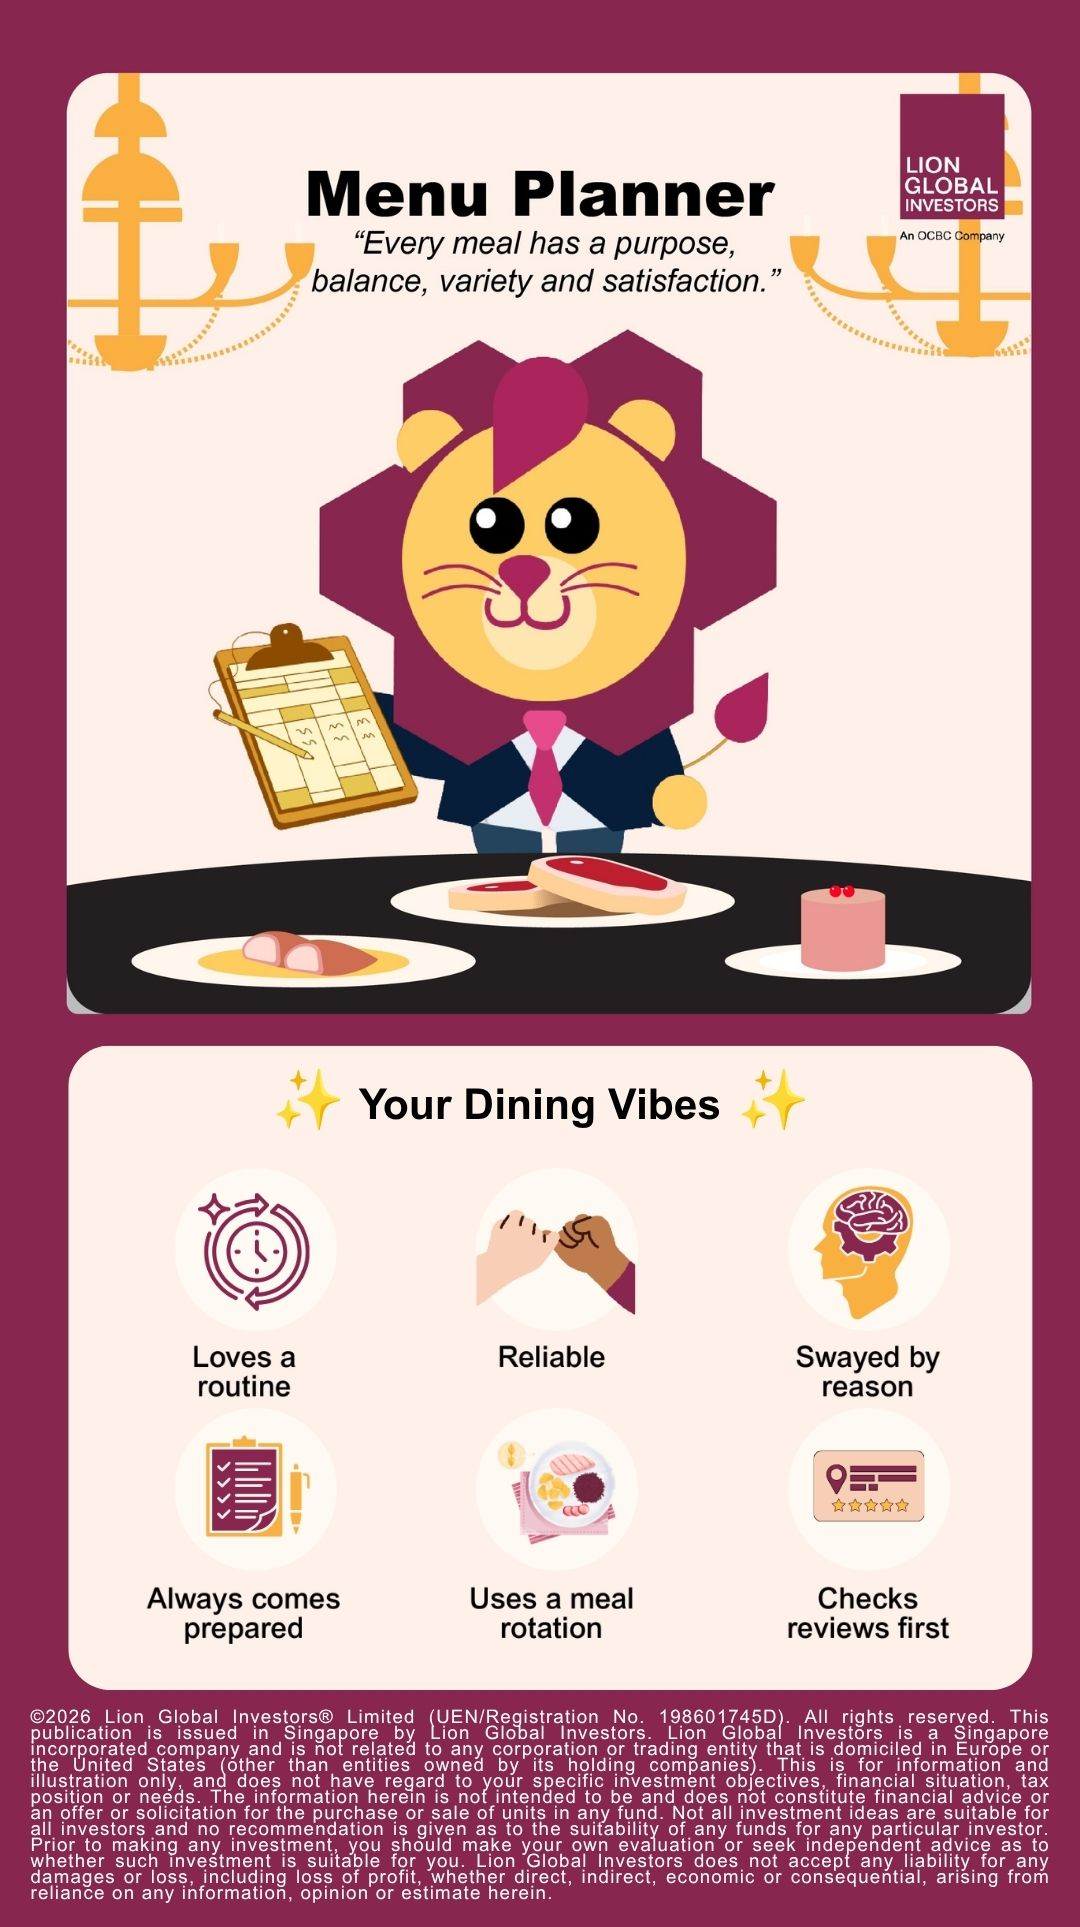
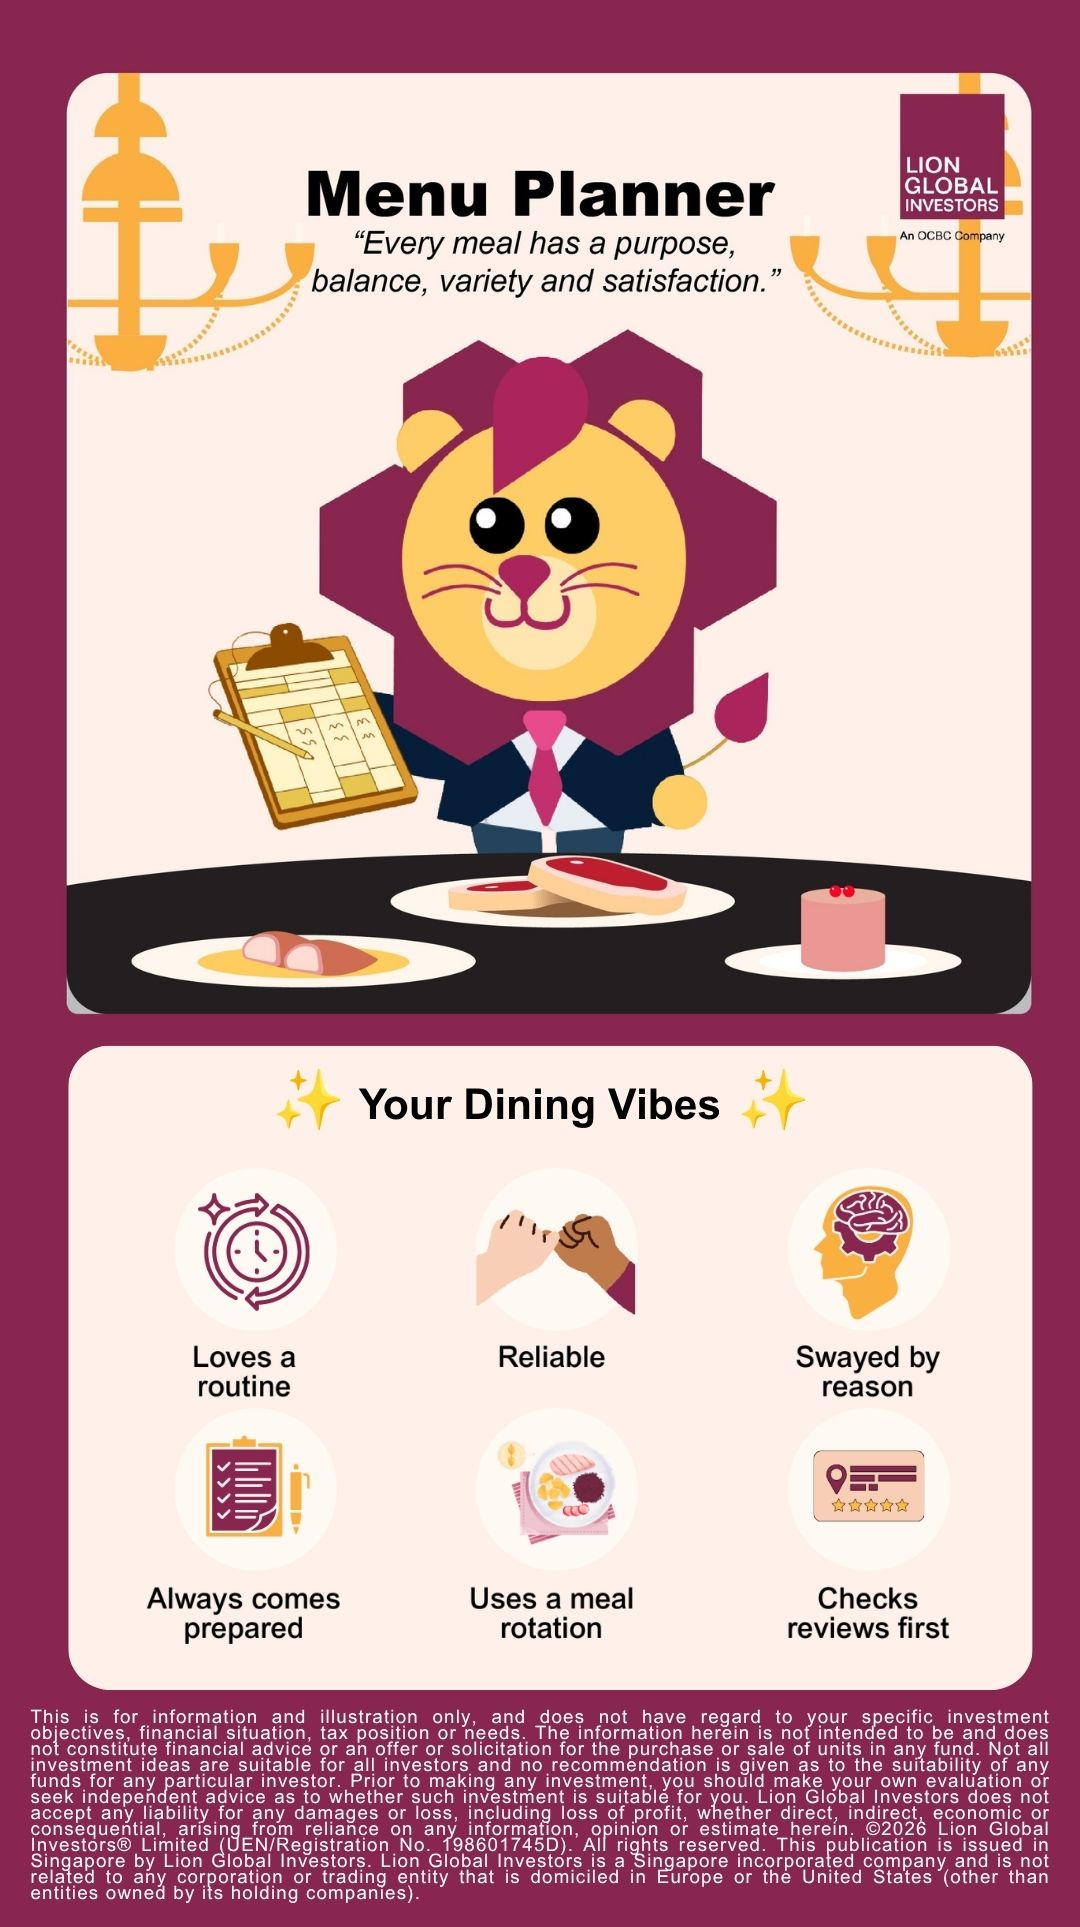
update disclaimer

Changed region(s): [[0.0306, 0.8718, 0.9778, 0.9964]]

diff --git a/result-classic-lover.html b/result-classic-lover.html
@@ -140,7 +140,7 @@
           
         </div>
 
-        <p class="disclaimer" id="disclaimer">^LBMA GOLD PRICE IS A TRADEMARK OF PRECIOUS METALS PRICES LIMITED, LICENSED TO ICE BENCHMARK ADMINISTRATION LIMITED (IBA) AS THE ADMINISTRATOR OF THE LBMA GOLD PRICE, AND IS USED BY LION GLOBAL INVESTORS LIMITED WITH PERMISSION UNDER LICENCE FROM IBA. <br> ©2026 Lion Global Investors® Limited (UEN/Registration No. 198601745D). All rights reserved. This publication is issued in Singapore by Lion Global Investors. Lion Global Investors is a Singapore incorporated company and is not related to any corporation or trading entity that is domiciled in Europe or the United States (other than entities owned by its holding companies). This is for information and illustration only, and does not have regard to your specific investment objectives, financial situation, tax position or needs. The information herein is not intended to be and does not constitute financial advice or an offer or solicitation for the purchase or sale of units in any fund. Not all investment ideas are suitable for all investors and no recommendation is given as to the suitability of any funds for any particular investor. You should read the prospectus and Product Highlights Sheet of the relevant fund which are available and may be obtained from Lion Global Investors Limited or any of its distributors, for further details including the risk factors and consider if a fund is suitable for you. Prior to making any investment, you should make your own evaluation or seek independent advice as to whether such investment is suitable for you. Lion Global Investors does not accept any liability for any damages or loss, including loss of profit, whether direct, indirect, economic or consequential, arising from reliance on any information, opinion or estimate herein.</p>
+        <p class="disclaimer" id="disclaimer">^LBMA GOLD PRICE IS A TRADEMARK OF PRECIOUS METALS PRICES LIMITED, LICENSED TO ICE BENCHMARK ADMINISTRATION LIMITED (IBA) AS THE ADMINISTRATOR OF THE LBMA GOLD PRICE, AND IS USED BY LION GLOBAL INVESTORS LIMITED WITH PERMISSION UNDER LICENCE FROM IBA. <br> This is for information and illustration only, and does not have regard to your specific investment objectives, financial situation, tax position or needs. The information herein is not intended to be and does not constitute financial advice or an offer or solicitation for the purchase or sale of units in any fund. Not all investment ideas are suitable for all investors and no recommendation is given as to the suitability of any funds for any particular investor. You should read the prospectus and Product Highlights Sheet of the relevant fund which are available and may be obtained from Lion Global Investors Limited or any of its distributors, for further details including the risk factors and consider if a fund is suitable for you. Prior to making any investment, you should make your own evaluation or seek independent advice as to whether such investment is suitable for you. Lion Global Investors does not accept any liability for any damages or loss, including loss of profit, whether direct, indirect, economic or consequential, arising from reliance on any information, opinion or estimate herein. ©2026 Lion Global Investors® Limited (UEN/Registration No. 198601745D). All rights reserved. This publication is issued in Singapore by Lion Global Investors. Lion Global Investors is a Singapore incorporated company and is not related to any corporation or trading entity that is domiciled in Europe or the United States (other than entities owned by its holding companies).</p>
         
         <p class="spacer"></p>
       </div>

diff --git a/result-travel-food-vlogger.html b/result-travel-food-vlogger.html
@@ -141,7 +141,7 @@
           
         </div>
 
-        <p class="disclaimer" id="disclaimer">^LBMA GOLD PRICE IS A TRADEMARK OF PRECIOUS METALS PRICES LIMITED, LICENSED TO ICE BENCHMARK ADMINISTRATION LIMITED (IBA) AS THE ADMINISTRATOR OF THE LBMA GOLD PRICE, AND IS USED BY LION GLOBAL INVESTORS LIMITED WITH PERMISSION UNDER LICENCE FROM IBA. <br> ©2026 Lion Global Investors® Limited (UEN/Registration No. 198601745D). All rights reserved. This publication is issued in Singapore by Lion Global Investors. Lion Global Investors is a Singapore incorporated company and is not related to any corporation or trading entity that is domiciled in Europe or the United States (other than entities owned by its holding companies). This is for information and illustration only, and does not have regard to your specific investment objectives, financial situation, tax position or needs. The information herein is not intended to be and does not constitute financial advice or an offer or solicitation for the purchase or sale of units in any fund. Not all investment ideas are suitable for all investors and no recommendation is given as to the suitability of any funds for any particular investor. You should read the prospectus and Product Highlights Sheet of the relevant fund which are available and may be obtained from Lion Global Investors Limited or any of its distributors, for further details including the risk factors and consider if a fund is suitable for you. Prior to making any investment, you should make your own evaluation or seek independent advice as to whether such investment is suitable for you. Lion Global Investors does not accept any liability for any damages or loss, including loss of profit, whether direct, indirect, economic or consequential, arising from reliance on any information, opinion or estimate herein.</p>
+        <p class="disclaimer" id="disclaimer">^LBMA GOLD PRICE IS A TRADEMARK OF PRECIOUS METALS PRICES LIMITED, LICENSED TO ICE BENCHMARK ADMINISTRATION LIMITED (IBA) AS THE ADMINISTRATOR OF THE LBMA GOLD PRICE, AND IS USED BY LION GLOBAL INVESTORS LIMITED WITH PERMISSION UNDER LICENCE FROM IBA. <br> This is for information and illustration only, and does not have regard to your specific investment objectives, financial situation, tax position or needs. The information herein is not intended to be and does not constitute financial advice or an offer or solicitation for the purchase or sale of units in any fund. Not all investment ideas are suitable for all investors and no recommendation is given as to the suitability of any funds for any particular investor. You should read the prospectus and Product Highlights Sheet of the relevant fund which are available and may be obtained from Lion Global Investors Limited or any of its distributors, for further details including the risk factors and consider if a fund is suitable for you. Prior to making any investment, you should make your own evaluation or seek independent advice as to whether such investment is suitable for you. Lion Global Investors does not accept any liability for any damages or loss, including loss of profit, whether direct, indirect, economic or consequential, arising from reliance on any information, opinion or estimate herein. ©2026 Lion Global Investors® Limited (UEN/Registration No. 198601745D). All rights reserved. This publication is issued in Singapore by Lion Global Investors. Lion Global Investors is a Singapore incorporated company and is not related to any corporation or trading entity that is domiciled in Europe or the United States (other than entities owned by its holding companies).</p>
         
         <p class="spacer"></p>
       </div>

diff --git a/result-adventurous-foodie.html b/result-adventurous-foodie.html
@@ -130,7 +130,7 @@
           
         </div>
 
-        <p class="disclaimer" id="disclaimer">©2026 Lion Global Investors® Limited (UEN/Registration No. 198601745D). All rights reserved. This publication is issued in Singapore by Lion Global Investors. Lion Global Investors is a Singapore incorporated company and is not related to any corporation or trading entity that is domiciled in Europe or the United States (other than entities owned by its holding companies). This is for information and illustration only, and does not have regard to your specific investment objectives, financial situation, tax position or needs. The information herein is not intended to be and does not constitute financial advice or an offer or solicitation for the purchase or sale of units in any fund. Not all investment ideas are suitable for all investors and no recommendation is given as to the suitability of any funds for any particular investor. You should read the prospectus and Product Highlights Sheet of the relevant fund which are available and may be obtained from Lion Global Investors Limited or any of its distributors, for further details including the risk factors and consider if a fund is suitable for you. Prior to making any investment, you should make your own evaluation or seek independent advice as to whether such investment is suitable for you. Lion Global Investors does not accept any liability for any damages or loss, including loss of profit, whether direct, indirect, economic or consequential, arising from reliance on any information, opinion or estimate herein.</p>
+        <p class="disclaimer" id="disclaimer">This is for information and illustration only, and does not have regard to your specific investment objectives, financial situation, tax position or needs. The information herein is not intended to be and does not constitute financial advice or an offer or solicitation for the purchase or sale of units in any fund. Not all investment ideas are suitable for all investors and no recommendation is given as to the suitability of any funds for any particular investor. You should read the prospectus and Product Highlights Sheet of the relevant fund which are available and may be obtained from Lion Global Investors Limited or any of its distributors, for further details including the risk factors and consider if a fund is suitable for you. Prior to making any investment, you should make your own evaluation or seek independent advice as to whether such investment is suitable for you. Lion Global Investors does not accept any liability for any damages or loss, including loss of profit, whether direct, indirect, economic or consequential, arising from reliance on any information, opinion or estimate herein. ©2026 Lion Global Investors® Limited (UEN/Registration No. 198601745D). All rights reserved. This publication is issued in Singapore by Lion Global Investors. Lion Global Investors is a Singapore incorporated company and is not related to any corporation or trading entity that is domiciled in Europe or the United States (other than entities owned by its holding companies).</p>
         
         <p class="spacer"></p>
       </div>

diff --git a/result-menu-planner.html b/result-menu-planner.html
@@ -142,7 +142,7 @@
           
         </div>
 
-        <p class="disclaimer" id="disclaimer">©2026 Lion Global Investors® Limited (UEN/Registration No. 198601745D). All rights reserved. This publication is issued in Singapore by Lion Global Investors. Lion Global Investors is a Singapore incorporated company and is not related to any corporation or trading entity that is domiciled in Europe or the United States (other than entities owned by its holding companies). This is for information and illustration only, and does not have regard to your specific investment objectives, financial situation, tax position or needs. The information herein is not intended to be and does not constitute financial advice or an offer or solicitation for the purchase or sale of units in any fund. Not all investment ideas are suitable for all investors and no recommendation is given as to the suitability of any funds for any particular investor. You should read the prospectus and Product Highlights Sheet of the relevant fund which are available and may be obtained from Lion Global Investors Limited or any of its distributors, for further details including the risk factors and consider if a fund is suitable for you. Prior to making any investment, you should make your own evaluation or seek independent advice as to whether such investment is suitable for you. Lion Global Investors does not accept any liability for any damages or loss, including loss of profit, whether direct, indirect, economic or consequential, arising from reliance on any information, opinion or estimate herein.</p>
+        <p class="disclaimer" id="disclaimer">This is for information and illustration only, and does not have regard to your specific investment objectives, financial situation, tax position or needs. The information herein is not intended to be and does not constitute financial advice or an offer or solicitation for the purchase or sale of units in any fund. Not all investment ideas are suitable for all investors and no recommendation is given as to the suitability of any funds for any particular investor. You should read the prospectus and Product Highlights Sheet of the relevant fund which are available and may be obtained from Lion Global Investors Limited or any of its distributors, for further details including the risk factors and consider if a fund is suitable for you. Prior to making any investment, you should make your own evaluation or seek independent advice as to whether such investment is suitable for you. Lion Global Investors does not accept any liability for any damages or loss, including loss of profit, whether direct, indirect, economic or consequential, arising from reliance on any information, opinion or estimate herein. ©2026 Lion Global Investors® Limited (UEN/Registration No. 198601745D). All rights reserved. This publication is issued in Singapore by Lion Global Investors. Lion Global Investors is a Singapore incorporated company and is not related to any corporation or trading entity that is domiciled in Europe or the United States (other than entities owned by its holding companies).</p>
         
         <p class="spacer"></p>
       </div>

diff --git a/result-picky-eater.html b/result-picky-eater.html
@@ -130,7 +130,7 @@
           
         </div>
 
-        <p class="disclaimer" id="disclaimer">©2026 Lion Global Investors® Limited (UEN/Registration No. 198601745D). All rights reserved. This publication is issued in Singapore by Lion Global Investors. Lion Global Investors is a Singapore incorporated company and is not related to any corporation or trading entity that is domiciled in Europe or the United States (other than entities owned by its holding companies). This is for information and illustration only, and does not have regard to your specific investment objectives, financial situation, tax position or needs. The information herein is not intended to be and does not constitute financial advice or an offer or solicitation for the purchase or sale of units in any fund. Not all investment ideas are suitable for all investors and no recommendation is given as to the suitability of any funds for any particular investor. You should read the prospectus and Product Highlights Sheet of the relevant fund which are available and may be obtained from Lion Global Investors Limited or any of its distributors, for further details including the risk factors and consider if a fund is suitable for you. Prior to making any investment, you should make your own evaluation or seek independent advice as to whether such investment is suitable for you. Lion Global Investors does not accept any liability for any damages or loss, including loss of profit, whether direct, indirect, economic or consequential, arising from reliance on any information, opinion or estimate herein.</p>
+        <p class="disclaimer" id="disclaimer">This is for information and illustration only, and does not have regard to your specific investment objectives, financial situation, tax position or needs. The information herein is not intended to be and does not constitute financial advice or an offer or solicitation for the purchase or sale of units in any fund. Not all investment ideas are suitable for all investors and no recommendation is given as to the suitability of any funds for any particular investor. You should read the prospectus and Product Highlights Sheet of the relevant fund which are available and may be obtained from Lion Global Investors Limited or any of its distributors, for further details including the risk factors and consider if a fund is suitable for you. Prior to making any investment, you should make your own evaluation or seek independent advice as to whether such investment is suitable for you. Lion Global Investors does not accept any liability for any damages or loss, including loss of profit, whether direct, indirect, economic or consequential, arising from reliance on any information, opinion or estimate herein. ©2026 Lion Global Investors® Limited (UEN/Registration No. 198601745D). All rights reserved. This publication is issued in Singapore by Lion Global Investors. Lion Global Investors is a Singapore incorporated company and is not related to any corporation or trading entity that is domiciled in Europe or the United States (other than entities owned by its holding companies).</p>
         
         <p class="spacer"></p>
       </div>

diff --git a/result-restaurant-critic.html b/result-restaurant-critic.html
@@ -142,7 +142,7 @@
           
         </div>
 
-        <p class="disclaimer" id="disclaimer">©2026 Lion Global Investors® Limited (UEN/Registration No. 198601745D). All rights reserved. This publication is issued in Singapore by Lion Global Investors. Lion Global Investors is a Singapore incorporated company and is not related to any corporation or trading entity that is domiciled in Europe or the United States (other than entities owned by its holding companies). This is for information and illustration only, and does not have regard to your specific investment objectives, financial situation, tax position or needs. The information herein is not intended to be and does not constitute financial advice or an offer or solicitation for the purchase or sale of units in any fund. Not all investment ideas are suitable for all investors and no recommendation is given as to the suitability of any funds for any particular investor. You should read the prospectus and Product Highlights Sheet of the relevant fund which are available and may be obtained from Lion Global Investors Limited or any of its distributors, for further details including the risk factors and consider if a fund is suitable for you. Prior to making any investment, you should make your own evaluation or seek independent advice as to whether such investment is suitable for you. Lion Global Investors does not accept any liability for any damages or loss, including loss of profit, whether direct, indirect, economic or consequential, arising from reliance on any information, opinion or estimate herein.</p>
+        <p class="disclaimer" id="disclaimer">This is for information and illustration only, and does not have regard to your specific investment objectives, financial situation, tax position or needs. The information herein is not intended to be and does not constitute financial advice or an offer or solicitation for the purchase or sale of units in any fund. Not all investment ideas are suitable for all investors and no recommendation is given as to the suitability of any funds for any particular investor. You should read the prospectus and Product Highlights Sheet of the relevant fund which are available and may be obtained from Lion Global Investors Limited or any of its distributors, for further details including the risk factors and consider if a fund is suitable for you. Prior to making any investment, you should make your own evaluation or seek independent advice as to whether such investment is suitable for you. Lion Global Investors does not accept any liability for any damages or loss, including loss of profit, whether direct, indirect, economic or consequential, arising from reliance on any information, opinion or estimate herein. ©2026 Lion Global Investors® Limited (UEN/Registration No. 198601745D). All rights reserved. This publication is issued in Singapore by Lion Global Investors. Lion Global Investors is a Singapore incorporated company and is not related to any corporation or trading entity that is domiciled in Europe or the United States (other than entities owned by its holding companies).</p>
         
         <p class="spacer"></p>
       </div>
